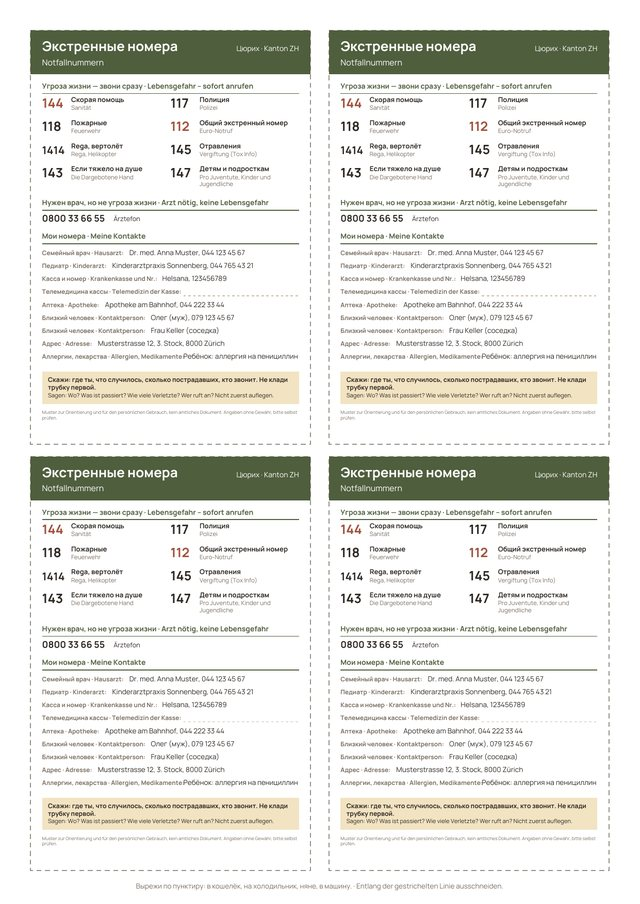
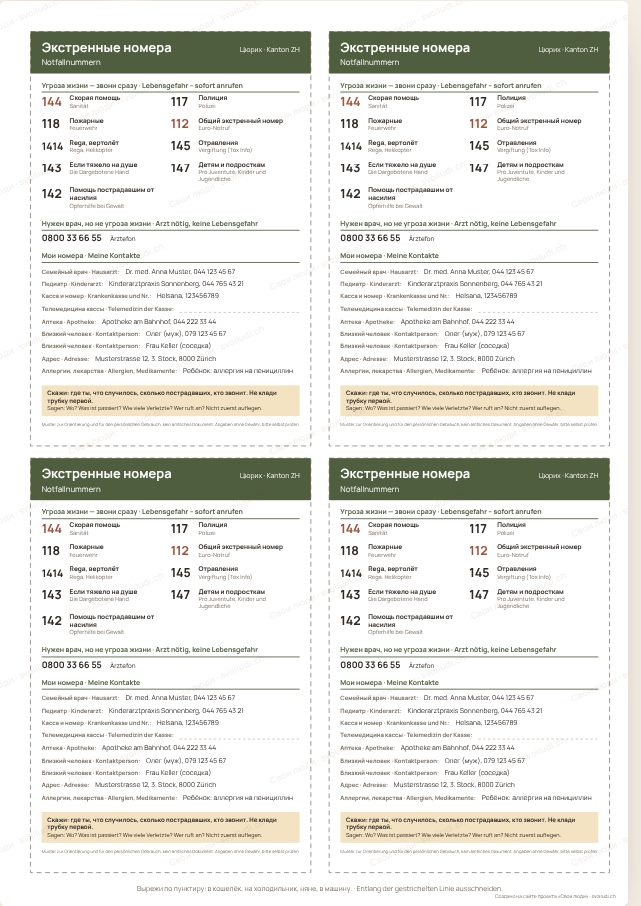
Копия: номер 142 (помощь пострадавшим от насилия, с 01.05.2026) в «Карточке экстренных номеров» на всех языках и в статье «Болезнь и травма»; веер карточки пересобран
Claude-Session: https://claude.ai/code/session_01WgfST2Vyz4eyVtF3k8St5z

Changed region(s): [[0.5312, 0.0, 1.0, 1.0], [0.0625, 0.031, 0.4688, 0.9602], [0.375, 0.031, 0.4688, 0.0619]]

diff --git a/instrumenty/ekstrennye-nomera/index.html b/instrumenty/ekstrennye-nomera/index.html
@@ -186,22 +186,22 @@ const FIELDS = ['arzt','arztTel','kid','kidTel','kasse','nr','tele','apo','p1','
 /* Тексты карточки на всех языках. ru — язык сайта (на украинской странице переводится). */
 const L = {
   ru: {title:'Экстренные номера', sos:'Угроза жизни — звони сразу', doc:'Нужен врач, но не угроза жизни', me:'Мои номера', kt:'Кантон',
-    s144:'Скорая помощь', s117:'Полиция', s118:'Пожарные', s112:'Общий экстренный номер', s1414:'Rega, вертолёт', s145:'Отравления', s143:'Если тяжело на душе', s147:'Детям и подросткам',
+    s144:'Скорая помощь', s117:'Полиция', s118:'Пожарные', s112:'Общий экстренный номер', s1414:'Rega, вертолёт', s145:'Отравления', s143:'Если тяжело на душе', s142:'Помощь пострадавшим от насилия', s147:'Детям и подросткам',
     arzt:'Семейный врач', kid:'Педиатр', kasse:'Касса и номер', tele:'Телемедицина кассы', apo:'Аптека', p:'Близкий человек', adr:'Адрес', allerg:'Аллергии, лекарства', region:'Номер своего региона',
     say:'Скажи: где ты, что случилось, сколько пострадавших, кто звонит. Не клади трубку первой.', cut:'Вырежи по пунктиру: в кошелёк, на холодильник, няне, в машину.',
     disc:'Образец для личного использования, не официальный документ. Номера проверены 08.10.2026, перепроверяй сама. svoiludi.ch'},
   de: {title:'Notfallnummern', sos:'Lebensgefahr – sofort anrufen', doc:'Arzt nötig, keine Lebensgefahr', me:'Meine Kontakte', kt:'Kanton',
-    s144:'Sanität', s117:'Polizei', s118:'Feuerwehr', s112:'Euro-Notruf', s1414:'Rega, Helikopter', s145:'Vergiftung (Tox Info)', s143:'Die Dargebotene Hand', s147:'Pro Juventute, Kinder und Jugendliche',
+    s144:'Sanität', s117:'Polizei', s118:'Feuerwehr', s112:'Euro-Notruf', s1414:'Rega, Helikopter', s145:'Vergiftung (Tox Info)', s143:'Die Dargebotene Hand', s142:'Opferhilfe bei Gewalt', s147:'Pro Juventute, Kinder und Jugendliche',
     arzt:'Hausarzt', kid:'Kinderarzt', kasse:'Krankenkasse und Nr.', tele:'Telemedizin der Kasse', apo:'Apotheke', p:'Kontaktperson', adr:'Adresse', allerg:'Allergien, Medikamente', region:'Nummer meiner Region',
     say:'Sagen: Wo? Was ist passiert? Wie viele Verletzte? Wer ruft an? Nicht zuerst auflegen.', cut:'Entlang der gestrichelten Linie ausschneiden.',
     disc:'Muster zur Orientierung und für den persönlichen Gebrauch, kein amtliches Dokument. Angaben ohne Gewähr, bitte selbst prüfen.'},
   fr: {title:'Numéros d’urgence', sos:'Danger de mort – appeler tout de suite', doc:'Besoin d’un médecin, pas de danger de mort', me:'Mes contacts', kt:'Canton',
-    s144:'Ambulance', s117:'Police', s118:'Pompiers', s112:'Numéro d’urgence européen', s1414:'Rega, hélicoptère', s145:'Intoxication (Tox Info)', s143:'La Main Tendue', s147:'Pro Juventute, enfants et jeunes',
+    s144:'Ambulance', s117:'Police', s118:'Pompiers', s112:'Numéro d’urgence européen', s1414:'Rega, hélicoptère', s145:'Intoxication (Tox Info)', s143:'La Main Tendue', s142:'Aide aux victimes de violence', s147:'Pro Juventute, enfants et jeunes',
     arzt:'Médecin de famille', kid:'Pédiatre', kasse:'Caisse maladie et n°', tele:'Télémédecine de la caisse', apo:'Pharmacie', p:'Personne de contact', adr:'Adresse', allerg:'Allergies, médicaments', region:'Numéro de ma région',
     say:'Dire : Où ? Que s’est-il passé ? Combien de blessés ? Qui appelle ? Ne pas raccrocher en premier.', cut:'Découper le long des pointillés.',
     disc:'Modèle indicatif pour usage personnel, pas un document officiel. Données sans garantie, à vérifier soi-même.'},
   it: {title:'Numeri d’emergenza', sos:'Pericolo di vita – chiamare subito', doc:'Serve un medico, nessun pericolo di vita', me:'I miei contatti', kt:'Cantone',
-    s144:'Ambulanza', s117:'Polizia', s118:'Pompieri', s112:'Numero d’emergenza europeo', s1414:'Rega, elicottero', s145:'Avvelenamento (Tox Info)', s143:'Telefono Amico', s147:'Pro Juventute, bambini e giovani',
+    s144:'Ambulanza', s117:'Polizia', s118:'Pompieri', s112:'Numero d’emergenza europeo', s1414:'Rega, elicottero', s145:'Avvelenamento (Tox Info)', s143:'Telefono Amico', s142:'Aiuto alle vittime di violenza', s147:'Pro Juventute, bambini e giovani',
     arzt:'Medico di famiglia', kid:'Pediatra', kasse:'Cassa malati e n.', tele:'Telemedicina della cassa', apo:'Farmacia', p:'Persona di contatto', adr:'Indirizzo', allerg:'Allergie, medicamenti', region:'Numero della mia regione',
     say:'Dire: Dove? Cosa è successo? Quanti feriti? Chi chiama? Non riattaccare per primi.', cut:'Ritagliare lungo la linea tratteggiata.',
     disc:'Modello indicativo per uso personale, non un documento ufficiale. Dati senza garanzia, da verificare personalmente.'}
@@ -211,7 +211,7 @@ const TR = [['Дети, весь кантон', ['Kinder, ganzer Kanton', 'Enfan
   ['Восток кантона', ['Thurgau Ost', 'Thurgovie est', 'Turgovia est']], ['Запад', ['West', 'Ouest', 'Ovest']], ['Медицинская консультация', ['Medizinische Beratung', 'Conseil médical', 'Consulenza medica']],
   ['взрослые', ['Erwachsene', 'adultes', 'adulti']], ['дети до 15 лет', ['Kinder bis 15', 'enfants jusqu’à 15 ans', 'bambini fino a 15 anni']]];
 const tr = (s, lg) => { const i = {de: 0, fr: 1, it: 2}[lg]; if (i === undefined) return s; TR.forEach(([a, b]) => { s = s.split(a).join(b[i]); }); return s; };
-const SOS = ['144', '117', '118', '112', '1414', '145', '143', '147'];
+const SOS = ['144', '117', '118', '112', '1414', '145', '143', '147', '142'];
 
 let S = load(), EX = null;
 function blank(){ return {k: '', lang: 'bi', fmt: 'four', bw: false, blank: true, rows: {}, me: {}}; }
@@ -251,10 +251,10 @@ function card(d, x, y, w, sc, big){
   // угроза жизни: две колонки
   head('sos');
   const colW = iw / 2, nW = tw('1414', true, 10.5 * sc) + 2.2 * sc;
-  for (let r = 0; r < 4; r++) {
+  for (let r = 0; r < Math.ceil(SOS.length / 2); r++) {
     let rowH = 0;
     [0, 1].forEach(c => {
-      const num = SOS[r * 2 + c], xx = x + pad + c * colW;
+      const num = SOS[r * 2 + c], xx = x + pad + c * colW; if (!num) return;
       text(num, xx, cy + 1 * sc, (num.length > 3 ? 10.5 : 12.5) * sc, true, num === '144' || num === '112' ? C.red : C.num);
       const l1 = wrap(t1('s' + num), true, 6.6 * sc, colW - nW - 2 * sc), l2 = two ? wrap(t2('s' + num), false, 5.8 * sc, colW - nW - 2 * sc) : [];
       let yy = cy - 1.0 * sc;

diff --git a/shveycariya/bolezn-travma/index.html b/shveycariya/bolezn-travma/index.html
@@ -539,6 +539,7 @@ a.yours:hover{background:#EBD3A3}
   <li><a href="tel:145">145</a><span>Отравления (<a href="https://www.toxinfo.ch">Tox Info Suisse</a>), в том числе у детей и животных</span></li>
   <li><a href="tel:143">143</a><span>Если тяжело на душе (<a href="https://www.143.ch">Die Dargebotene Hand</a>)</span></li>
   <li><a href="tel:147">147</a><span>Детям и подросткам (<a href="https://www.147.ch">Pro Juventute</a>)</span></li>
+  <li><a href="tel:142">142</a><span>Помощь пострадавшим от насилия и их близким (<a href="https://www.opferhilfe-schweiz.ch">Opferhilfe</a>) — бесплатно, круглосуточно, конфиденциально, с 1 мая 2026. При опасности прямо сейчас — 117</span></li>
 </ul>
 <p>По телефону скажи: где ты, что случилось и сколько людей пострадало. Не клади трубку первой. Говорить можно по-немецки, по-французски, по-итальянски, чаще всего и по-английски.</p>
 

diff --git a/_i18n/shveycariya_src/articles.py b/_i18n/shveycariya_src/articles.py
@@ -1246,6 +1246,7 @@ ARTICLES['bolezn-travma'] = dict(
   <li><a href="tel:145">145</a><span>Отравления (<a href="https://www.toxinfo.ch">Tox Info Suisse</a>), в том числе у детей и животных</span></li>
   <li><a href="tel:143">143</a><span>Если тяжело на душе (<a href="https://www.143.ch">Die Dargebotene Hand</a>)</span></li>
   <li><a href="tel:147">147</a><span>Детям и подросткам (<a href="https://www.147.ch">Pro Juventute</a>)</span></li>
+  <li><a href="tel:142">142</a><span>Помощь пострадавшим от насилия и их близким (<a href="https://www.opferhilfe-schweiz.ch">Opferhilfe</a>) — бесплатно, круглосуточно, конфиденциально, с 1 мая 2026. При опасности прямо сейчас — 117</span></li>
 </ul>
 <p>По телефону скажи: где ты, что случилось и сколько людей пострадало. Не клади трубку первой. Говорить можно по-немецки, по-французски, по-итальянски, чаще всего и по-английски.</p>
 
